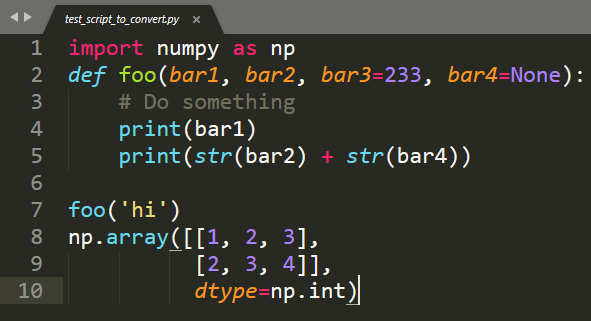
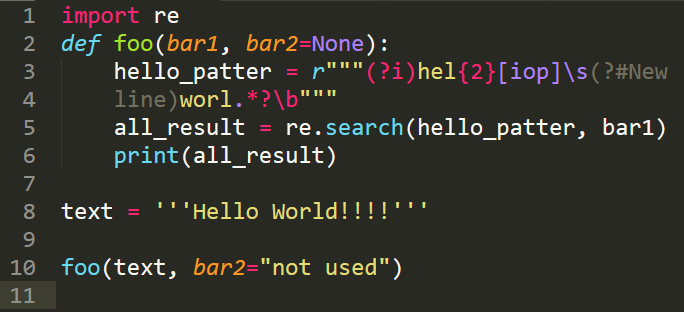
Regex enhanced

diff --git a/examples/test_output.html b/examples/test_output.html
@@ -2,14 +2,14 @@
 		<title>Test Python - Enhanced Pygments Lexer</title>
 		<link href="highlight.css" rel="stylesheet"/>
 	</head>
-	<div class="highlight"><pre><span></span><span class="kn">import</span> <span class="nn">numpy</span> <span class="k">as</span> <span class="nn">np</span>
-<span class="kd">def</span> <span class="nf">foo</span><span class="p">(</span><span class="ka">bar1</span><span class="p">,</span> <span class="ka">bar2</span><span class="p">,</span> <span class="ka">bar3</span><span class="o">=</span><span class="mi">233</span><span class="p">,</span> <span class="ka">bar4</span><span class="o">=</span><span class="kc">None</span><span class="p">):</span>
-    <span class="c1"># Do something</span>
-    <span class="nb">print</span><span class="p">(</span><span class="n">bar1</span><span class="p">)</span>
-    <span class="nb">print</span><span class="p">(</span><span class="kt">str</span><span class="p">(</span><span class="n">bar2</span><span class="p">)</span> <span class="o">+</span> <span class="kt">str</span><span class="p">(</span><span class="n">bar4</span><span class="p">))</span>
+	<div class="highlight"><pre><span></span><span class="kn">import</span> <span class="nn">re</span>
+<span class="k">def</span> <span class="nf">foo</span><span class="p">(</span><span class="n">bar1</span><span class="p">,</span> <span class="n">bar2</span><span class="o">=</span><span class="kc">None</span><span class="p">):</span>
+    <span class="n">hello_patter</span> <span class="o">=</span> <span class="sa">r</span><span class="s2">"""(?i)hel</span><span class="si">{2}</span><span class="s2">[iop]\s(?#New</span>
+<span class="s2">    line)worl.*?\b"""</span>
+    <span class="n">all_result</span> <span class="o">=</span> <span class="n">re</span><span class="o">.</span><span class="n">search</span><span class="p">(</span><span class="n">hello_patter</span><span class="p">,</span> <span class="n">bar1</span><span class="p">)</span>
+    <span class="nb">print</span><span class="p">(</span><span class="n">all_result</span><span class="p">)</span>
 
-<span class="nfc">foo</span><span class="p">(</span><span class="s1">'hi'</span><span class="p">)</span>
-<span class="n">np</span><span class="p">.</span><span class="nfc">array</span><span class="p">([[</span><span class="mi">1</span><span class="p">,</span> <span class="mi">2</span><span class="p">,</span> <span class="mi">3</span><span class="p">],</span> 
-          <span class="p">[</span><span class="mi">2</span><span class="p">,</span> <span class="mi">3</span><span class="p">,</span> <span class="mi">4</span><span class="p">]],</span> 
-          <span class="ka">dtype</span><span class="o">=</span><span class="n">np</span><span class="p">.</span><span class="kt">int</span><span class="p">)</span>
+<span class="n">text</span> <span class="o">=</span> <span class="s1">'''Hello World!!!!'''</span>
+
+<span class="n">foo</span><span class="p">(</span><span class="n">text</span><span class="p">,</span> <span class="n">bar2</span><span class="o">=</span><span class="s2">"not used"</span><span class="p">)</span>
 </pre></div></html>

diff --git a/examples/highlight.css b/examples/highlight.css
@@ -1,3 +1,4 @@
+/* As close to Monokai as possible */
 body {
 	background: #19191b;
 	color: #c3c3c3;
@@ -10,47 +11,32 @@ pre {
 	line-height: 1.3em;
     font-size: 13px;
 }
-
-/* Monokai for dark mode*/
-
 .n, .nn, .p, .vm { /* normal names */
-	color: #f8f8f2;
+	color: #f8f8f2; /* white */
 }
-.k, .kn, .ow { /* normal keyword; "import", "as"; operator.word ... */
-	color: #f92b50;
+.k, .kn, .o, .ow, .sr, .nt { /* normal keyword; "import", "as"; operator.word; special regex */
+	color: #f92b50; /* red */
 }
-.kd, .kt, .ne {/* "class" and "def"; type; exception */
-	color: #67d8da;
+.kd, .kt, .ne, .sa {/* "class" and "def"; type; exception; r'' */
+	color: #67d8da; /* blue */
 	font-style: italic
 }
- .nd { /* decorator */
- 	color: #67d8da;
+.nd, .nb, .nfc, .fm { /* decorator; builtins; function called */
+ 	color: #67d8da; /* blue */
  }
-.nb, .nfc { /* builtins */
-	color: #67d8da;
-}
-.o, .nt { /* "=" ; htmlTag; $*/
-	color: #f92472;
-}
 .sd, .c1, .err, .c, .cp { /* hash comment */
-	color: #747053;
+	color: #747053; /* grey */
 }
-.mi, .mf, .kc, .se, .si { /* integers, floats, constant keyword, string.escape */
-	color: #ac80ff;
+.mi, .mf, .kc, .se, .si, .srb { /* integers, floats, constant keyword, string.escape */
+	color: #ac80ff; /* purple */
 }
 .s, .s1, .s2 { /* str */
-	color: #e7db74;
+	color: #e7db74; /* yellow */
 }
 .bp, .ka { /* "self", keyword arguments */
-	color: #fd7e2f;
+	color: #fd7e2f; /* orange */
 	font-style: italic;
 }
 .nc, .nf, .na { /* name of class; function; htmlTagAttribute */
-	color: #a6e22f;
+	color: #a6e22f; /* green */
 	}
-.fm, .sa { /* __init__ */
-	color: #67d8da;
-}
-.sa { /* f"" */ 
-	font-style: italic;
-}

diff --git a/enhanced_pygments_lexers/pythonLexer.py b/enhanced_pygments_lexers/pythonLexer.py
@@ -11,6 +11,7 @@ from pygments import unistring as uni
 
 STANDARD_TYPES[Keyword.Argument] = 'ka'
 STANDARD_TYPES[Name.Function.Called] = 'nfc'
+STANDARD_TYPES[String.Regex.Bracket] = 'srb'
 
 class EnhancedPythonLexer(PythonLexer):
     uni_name = "[%s][%s]*" % (uni.xid_start, uni.xid_continue)
@@ -57,13 +58,13 @@ class EnhancedPythonLexer(PythonLexer):
         'expr': [
             # raw f-strings
             ('(?i)(rf|fr)(""")',
-             bygroups(String.Affix, String.Double), 'tdqf'),
+             bygroups(String.Affix, String.Double.Rawf), 'tdqf'),
             ("(?i)(rf|fr)(''')",
-             bygroups(String.Affix, String.Single), 'tsqf'),
+             bygroups(String.Affix, String.Single.Rawf), 'tsqf'),
             ('(?i)(rf|fr)(")',
-             bygroups(String.Affix, String.Double), 'dqf'),
+             bygroups(String.Affix, String.Double.Rawf), 'dqf'),
             ("(?i)(rf|fr)(')",
-             bygroups(String.Affix, String.Single), 'sqf'),
+             bygroups(String.Affix, String.Single.Rawf), 'sqf'),
             # non-raw f-strings
             ('([fF])(""")', bygroups(String.Affix, String.Double),
              combined('fstringescape', 'tdqf')),
@@ -74,15 +75,14 @@ class EnhancedPythonLexer(PythonLexer):
             ("([fF])(')", bygroups(String.Affix, String.Single),
              combined('fstringescape', 'sqf')),
             # raw strings
-            ## TODO: special regex expression highlight
             ('(?i)(rb|br|r)(""")',
-             bygroups(String.Affix, String.Double), 'tdqs'),
+             bygroups(String.Affix, String.Double.Raw), 'tdqrs'),
             ("(?i)(rb|br|r)(''')",
-             bygroups(String.Affix, String.Single), 'tsqs'),
+             bygroups(String.Affix, String.Single.Raw), 'tsqrs'),
             ('(?i)(rb|br|r)(")',
-             bygroups(String.Affix, String.Double), 'dqs'),
+             bygroups(String.Affix, String.Double.Raw), 'dqrs'),
             ("(?i)(rb|br|r)(')",
-             bygroups(String.Affix, String.Single), 'sqs'),
+             bygroups(String.Affix.Debug, String.Single.Raw), 'sqrs'),
             # non-raw strings
             ('([uUbB]?)(""")', bygroups(String.Affix, String.Double),
              combined('stringescape', 'tdqs')),
@@ -140,7 +140,7 @@ class EnhancedPythonLexer(PythonLexer):
              bygroups(Name.Function.Called, Punctuation), 'funcCallArgs'),
             (uni_name, Name),
         ],
-        #### Definition of function ####
+        #### Function definition and calling ####
         'funcDef': [
             include('magicfuncs'),
             # If is magicFunc
@@ -181,6 +181,7 @@ class EnhancedPythonLexer(PythonLexer):
             (r',', Punctuation, '#pop'),
             default('#pop')
         ],
+        #### Separate keyword of types ####
         'builtins': [
             (BUILTINS.get() + r'\b', Name.Builtin),
             (KEYWORD_TYPES.get() + r'\b', Keyword.Type),
@@ -215,5 +216,99 @@ class EnhancedPythonLexer(PythonLexer):
                 'RecursionError'),
                 prefix=r'(?<!\.)', suffix=r'\b'),
              Name.Exception),
+        ],
+        #### Regex ####
+        ## TODO: Merge duplicated patterns due to tdq, tsq, dq and sq string.
+        # single quote raw string
+        'sqrs': [
+            (r"'", String.Single, '#pop'),
+            (r"\\\d{1,2}|\\[AZzBb]", String.Regex), # things like \12 \z \b | *
+            (r"\\.|\.", String.Escape),
+            (r"\{\d+\}|\{\d+,\d+\}|[|*^$+?*]|\(\?[iLmsux]+\)|\(\?P=[_a-zA-Z0-9]+\)", String.Regex),
+            (r"\(\?:", String.Single.Raw),
+            (r"\(\?#", Comment, 'single-regex-comment'),
+            (r"(\()(\?\!|\?\<\!|\?\=|\?\<\=)", bygroups(String.Single.Raw, String.Escape)),
+            (r"\[", String.Regex.Bracket, 'single-regex-bracket'),
+            (r".", String.Single.Raw)
+        ],
+        'single-regex-bracket': [
+            (r"\]", String.Regex.Bracket, '#pop'),
+            (r".(?=')", String.Regex.Bracket, '#pop'),
+            (r".", String.Regex.Bracket)
+        ],
+        'single-regex-comment': [
+            (r"\)", Comment, '#pop'),
+            (r".(?=')", Comment, '#pop'),
+            (r".", Comment)
+        ],
+        # double quote raw string
+        'dqrs': [
+            (r'"', String.Double, '#pop'),
+            (r"\\\d{1,2}|\\[AZzBb]", String.Regex), # things like \12 \z \b | *
+            (r"\\.|\.", String.Escape),
+            (r"\{\d+\}|\{\d+,\d+\}|[|*^$+?*]|\(\?[iLmsux]+\)|\(\?P=[_a-zA-Z0-9]+\)", String.Regex),
+            (r"\(\?:", String.Double.Raw),
+            (r"\(\?#", Comment, 'double-regex-comment'),
+            (r"(\()(\?\!|\?\<\!|\?\=|\?\<\=)", bygroups(String.Double.Raw, String.Escape)),
+            (r"\[", String.Regex.Bracket, 'double-regex-bracket'),
+            (r".", String.Double.Raw)
+        ],
+        'double-regex-bracket': [
+            (r"\]", String.Regex.Bracket, '#pop'),
+            (r'.(?=")', String.Regex.Bracket, '#pop'),
+            (r".", String.Regex.Bracket)
+        ],
+        'double-regex-comment': [
+            (r"\)", Comment, '#pop'),
+            (r'.(?=")', Comment, '#pop'),
+            (r".", Comment)
+        ],
+        # Triple single quote raw string
+        'tsqrs': [
+            (r"'''", String.Single, '#pop'),
+            (r"\\\d{1,2}|\\[AZzBb]", String.Regex), # things like \12 \z \b | *
+            (r"\\.|\.", String.Escape),
+            (r"\{\d+\}|\{\d+,\d+\}|[|*^$+?*]|\(\?[iLmsux]+\)|\(\?P=[_a-zA-Z0-9]+\)", String.Regex),
+            (r"\(\?:", String.Single.Raw),
+            (r"\(\?#", Comment, 'single-regex-comment'),
+            (r"(\()(\?\!|\?\<\!|\?\=|\?\<\=)", bygroups(String.Single.Raw, String.Escape)),
+            (r"\[", String.Regex.Bracket, 'single-regex-bracket'),
+            (r".", String.Single.Raw)
+        ],
+        'tsingle-regex-bracket': [
+            (r'[\s\n]+', Text),
+            (r"\]", String.Regex.Bracket, '#pop'),
+            (r".(?='{3})", String.Regex.Bracket, '#pop'),
+            (r".", String.Regex.Bracket)
+        ],
+        'tsingle-regex-comment': [
+            (r'[\s\n]+', Text),
+            (r"\)", Comment, '#pop'),
+            (r".(?='{3})", Comment, '#pop'),
+            (r".", Comment)
+        ],
+        # Triple double quote raw string
+        'tdqrs': [
+            (r'"""', String.Double, '#pop'),
+            (r"\\\d{1,2}|\\[AZzBb]", String.Regex),
+            (r"\\.|\.", String.Escape),
+            (r"\{\d+\}|\{\d+,\d+\}|[|*^$+?*]|\(\?[iLmsux]+\)|\(\?P=[_a-zA-Z0-9]+\)", String.Regex),
+            (r"\(\?:", String.Double.Raw),
+            (r"\(\?#", Comment, 'double-regex-comment'),
+            (r"(\()(\?\!|\?\<\!|\?\=|\?\<\=)", bygroups(String.Double.Raw, String.Escape)),
+            (r"\[", String.Regex.Bracket, 'double-regex-bracket'),
+            (r".", String.Double.Raw)
+        ],
+        'double-regex-bracket': [
+            (r'[\s\n]+', Text),
+            (r"\]", String.Regex.Bracket, '#pop'),
+            (r'.(?="{3})', String.Regex.Bracket, '#pop'),
+            (r".", String.Regex.Bracket)
+        ],
+        'double-regex-comment': [
+            (r'[\s\n]+', Text),
+            (r"\)", Comment, '#pop'),
+            (r'.(?="{3})', Comment, '#pop'),
+            (r".", Comment)
         ],
     }

diff --git a/examples/test_script_to_convert.py b/examples/test_script_to_convert.py
@@ -1,10 +1,10 @@
-import numpy as np
-def foo(bar1, bar2, bar3=233, bar4=None):
-    # Do something
-    print(bar1)
-    print(str(bar2) + str(bar4))
+import re
+def foo(bar1, bar2=None):
+    hello_patter = r"""(?i)hel{2}[iop]\s(?#New
+    line)worl.*?\b"""
+    all_result = re.search(hello_patter, bar1)
+    print(all_result)
 
-foo('hi')
-np.array([[1, 2, 3], 
-          [2, 3, 4]], 
-          dtype=np.int)
+text = '''Hello World!!!!'''
+
+foo(text, bar2="not used")

diff --git a/run_test.py b/run_test.py
@@ -1,4 +1,5 @@
 from pygments import highlight
+from pygments.lexers import PythonLexer
 from pygments.formatters import HtmlFormatter
 from bs4 import BeautifulSoup
 

diff --git a/README.md b/README.md
@@ -10,31 +10,36 @@ Since I am not really happy with [Pygments](https://pygments.org/)' lexical anal
 
 ## Current Achievements
 
-Demonstration code:
+### Python3
+
+- Function, object method, builtins being called
+- Argument names in function definition
+- keyword argument name in callable calling
+- Regex raw string
+
+Demonstration code:  
 
 ```python
-import numpy as np
-def foo(bar1, bar2, bar3=233, bar4=None):
-    # Do something
-    print(bar1)
-    print(str(bar2) + str(bar4))
+import re
+def foo(bar1, bar2=None):
+    hello_patter = r"""(?i)hel{2}[iop]\s(?#New
+    line)worl.*?\b"""
+    all_result = re.search(hello_patter, bar1)
+    print(all_result)
 
-foo('hi')
-np.array([[1, 2, 3], 
-          [2, 3, 4]], 
-          dtype=np.int)
+text = '''Hello World!!!!'''
+
+foo(text, bar2="not used")
 ```
 
-How it looks in Sublime under Monokai theme:  
+How it looks in Sublime Text editor under **Monokai** theme:  
 
-![Sublime Display](examples/python_Sublime.png)
+![Sublime Display](examples/python_Sublime.png)  
 
-How it looks in browser after conversion by the enhanced lexer:  
+How it looks in browser after conversion by the native Pygments conversion, using a CSS defined as close to Monokai as possible [`examples/highlight.css`](examples/highlight.css):  
 
-![Converted Result](examples/python_demo.png)
+![Native Result](examples/python_Pygments.png)  
 
-Note that the font type and color scheme are set in external CSS file: `examples/highlight.css`.  
+How it looks in browser after conversion by the enhanced lexer, using the same CSS:  
 
-How it looks in browser after conversion by the native Pygments conversion, using the same CSS:  
-
-![Native Result](examples/python_Pygments.png)
+![Converted Result](examples/python_demo.png)  
